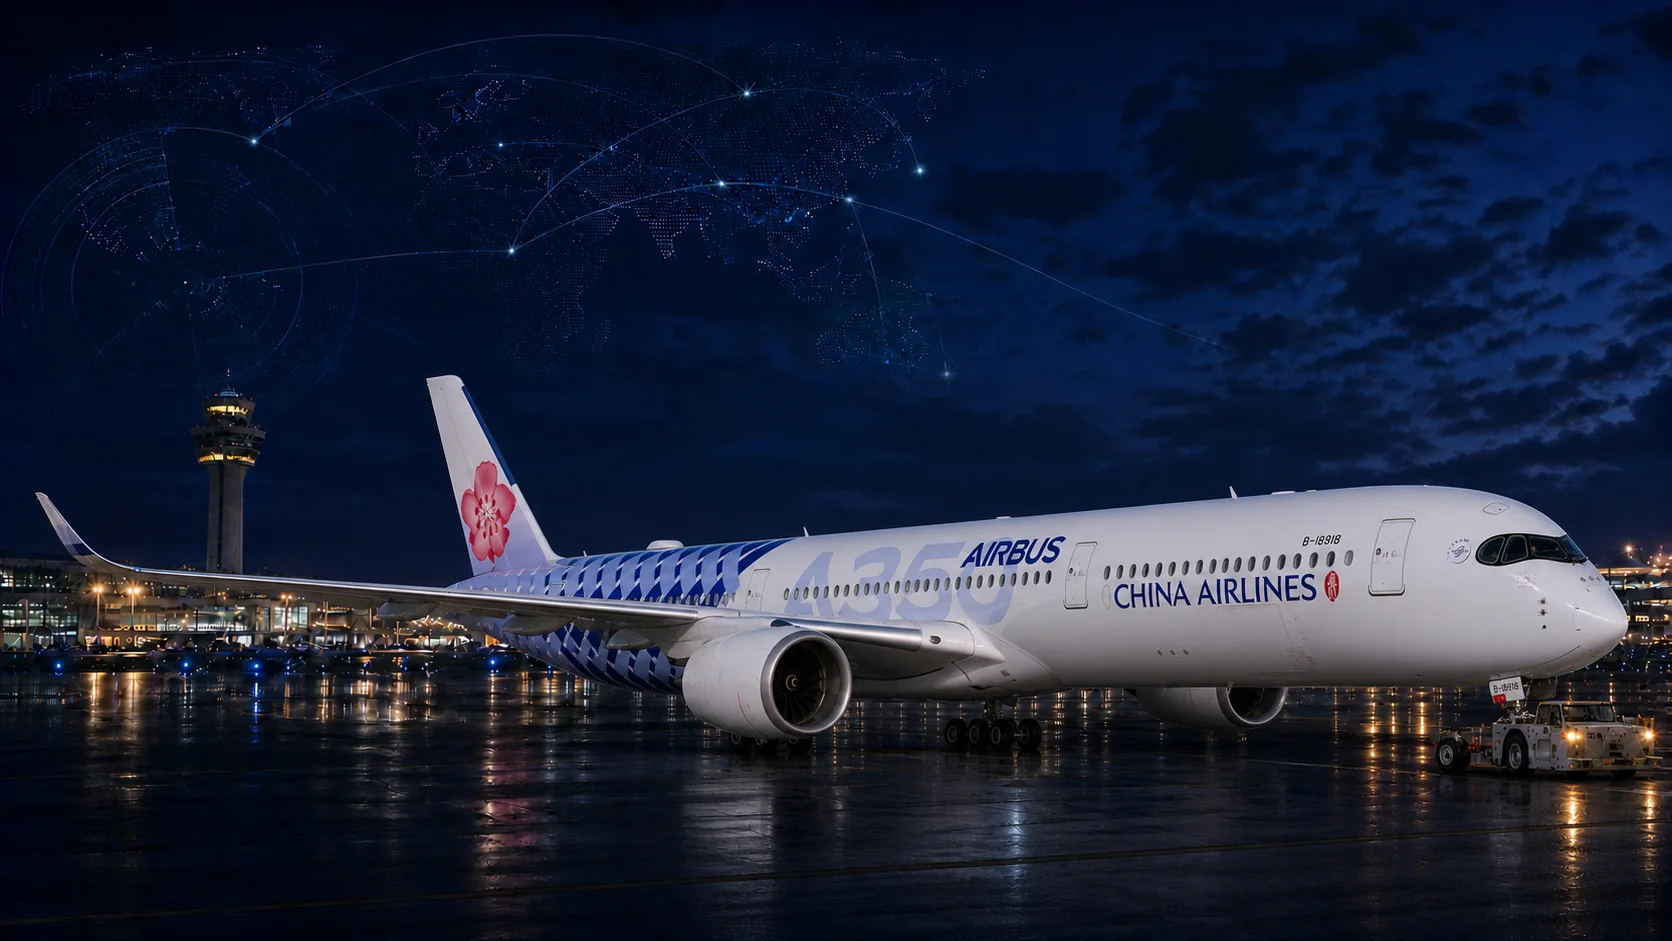
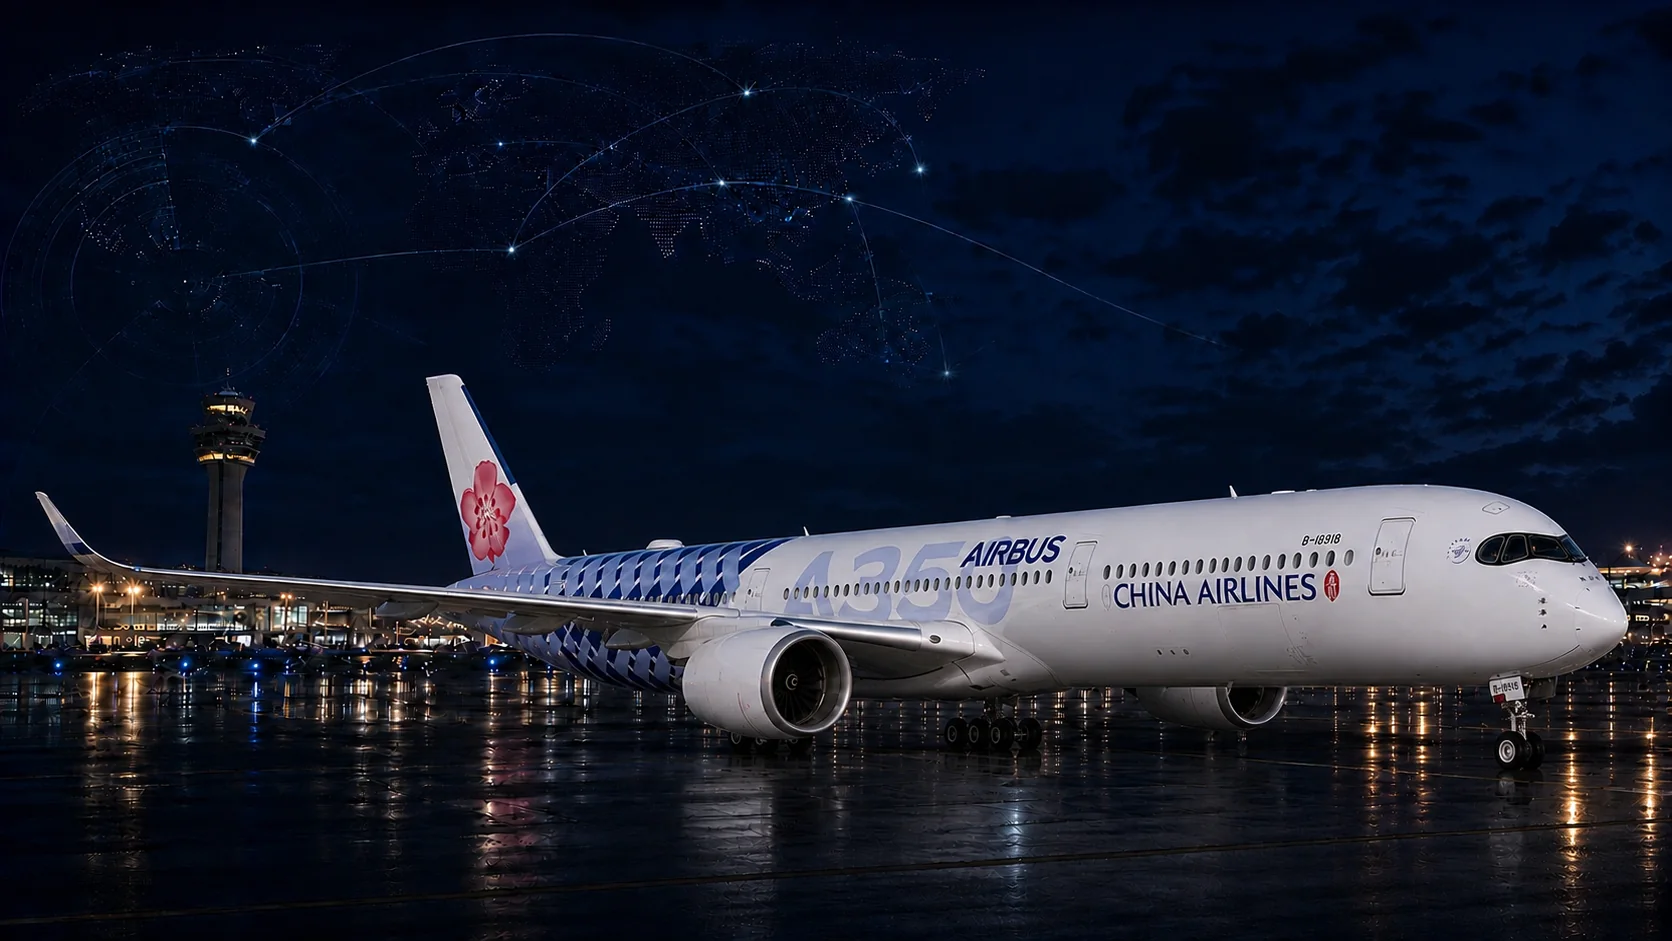
Add A350 Hero image to rotation

diff --git a/index.html b/index.html
@@ -13,13 +13,13 @@
     document.documentElement.dataset.heroStyle = ["1","2","3"].includes(style) ? style : "1";
   }());
 </script>
-<link href="css/style.css?v=20260808-1958" rel="stylesheet"/>
+<link href="css/style.css?v=20260808-2004" rel="stylesheet"/>
 </head>
 <body>
 <main id="top">
 <section class="hero">
 <div aria-hidden="true" class="hero-stage" id="heroStage">
-<img alt="" class="hero-slide is-active" decoding="async" fetchpriority="high" src="images/hero.webp?v=20260808-1958"/>
+<img alt="" class="hero-slide is-active" decoding="async" fetchpriority="high" src="images/hero.webp?v=20260808-2004"/>
 </div>
 <a aria-label="China Airlines Crew Portal Home" class="hero-logo-link" href="#top">
 <img alt="China Airlines Crew Portal logo" class="hero-logo" src="images/flightdeck-logo.webp"/>
@@ -289,7 +289,7 @@
           <div><b>ARINC route</b><span id="diagArincRoute">--</span></div>
           <div><b>ARINC HTTP</b><span id="diagArincHttp">--</span></div>
           <div><b>Browser cache</b><span id="diagCache">No-store requests</span></div>
-          <div><b>Version</b><span id="diagVersion">v8.2.72 · 20260808-1958</span></div>
+          <div><b>Version</b><span id="diagVersion">v8.2.73 · 20260808-2004</span></div>
         </div>
       </details>
     </details>
@@ -302,8 +302,8 @@
       <span>China Airlines Crew Portal</span>
     </div>
     <div class="footer-version" aria-label="Version information">
-      <span class="version-pill" id="footerVersion">Version v8.2.72</span>
-      <span id="footerBuild">Build 20260808-1958</span>
+      <span class="version-pill" id="footerVersion">Version v8.2.73</span>
+      <span id="footerBuild">Build 20260808-2004</span>
       <span>Designed for Flight Crew</span>
     </div>
   </div>
@@ -311,8 +311,8 @@
 <script src="js/app-1.js?v=6.4.2"></script>
 <script src="js/app-2.js?v=20260730-0903"></script>
 <script src="js/app-3.js?v=6.6.3"></script>
-<script src="js/app-4.js?v=20260808-1958"></script>
-<script src="js/airport-mrt.js?v=20260808-1958"></script>
-<script src="js/hero-slider.js?v=20260808-1958"></script>
+<script src="js/app-4.js?v=20260808-2004"></script>
+<script src="js/airport-mrt.js?v=20260808-2004"></script>
+<script src="js/hero-slider.js?v=20260808-2004"></script>
 </body>
 </html>

diff --git a/js/hero-slider.js b/js/hero-slider.js
@@ -3,12 +3,13 @@
   if(!stage)return;
 
   const slides=[
-    "images/hero.webp?v=20260808-1958",
-    "images/hero-a330-300.webp?v=20260808-1958",
-    "images/hero-b737-800.webp?v=20260808-1958",
-    "images/hero-b777-300er.webp?v=20260808-1958",
-    "images/hero-b787-10.webp?v=20260808-1958",
-    "images/hero-a321neo.webp?v=20260808-1958"
+    "images/hero.webp?v=20260808-2004",
+    "images/hero-a330-300.webp?v=20260808-2004",
+    "images/hero-b737-800.webp?v=20260808-2004",
+    "images/hero-b777-300er.webp?v=20260808-2004",
+    "images/hero-b787-10.webp?v=20260808-2004",
+    "images/hero-a321neo.webp?v=20260808-2004",
+    "images/hero-a350-1000.webp?v=20260808-2004"
   ];
   const intervalMs=10_000;
   const fadeMs=2_200;

diff --git a/cloudflare-worker.js b/cloudflare-worker.js
@@ -1,6 +1,6 @@
 /**
  * Crew Portal API — Cloudflare Worker
- * Version 2.8.72 (Crew Portal v8.2.72)
+ * Version 2.8.73 (Crew Portal v8.2.73)
  *
  * Primary MRT source: TDX TYMC StationTimeTable
  * Fallback MRT source: Taoyuan City Government Open Data XML
@@ -12,8 +12,8 @@
  *   TDX_CLIENT_SECRET
  */
 
-const PORTAL_VERSION = 'v8.2.72';
-const WORKER_VERSION = '2.8.72';
+const PORTAL_VERSION = 'v8.2.73';
+const WORKER_VERSION = '2.8.73';
 const DEFAULT_FLIGHT_AIRLINE = 'CI';
 const FLIGHT_UPSTREAM_TIMEOUT_MS = 7_000;
 const LIVE_FLIGHT_REFRESH_AGE_SECONDS = 10 * 60;

diff --git a/js/app-4.js b/js/app-4.js
@@ -1,6 +1,6 @@
 (function(){
-  const VERSION = "8.2.72";
-  const BUILD = "20260808-1958";
+  const VERSION = "8.2.73";
+  const BUILD = "20260808-2004";
   const DEFAULT_FLIGHT_AIRLINE = "CI";
   const RAW_BASE="https://raw.githubusercontent.com/B744F/crewportal/main/data/";
   const FLIGHT_GATE_API="https://flightdeck-api.201505-login.workers.dev/api/flight-gate";

diff --git a/CHANGELOG.md b/CHANGELOG.md
@@ -1,3 +1,9 @@
+## v8.2.73 — 2026-08-08
+
+- 補入 A350 Hero 圖片，輪播共七張，維持 B744 首張、每 10 秒切換與交疊過場。
+- A350 維持 1672×941 解析度並轉為高品質 WebP，以降低載入負荷。
+- 同步更新 Portal、Worker、Build 與靜態資產快取版本。
+
 ## v8.2.72 — 2026-08-08
 
 - 將 Hero 圖片更換為 B744、A330、B738、B777、B787 與 A321neo 六張新圖，維持 1672×941 並轉為高品質 WebP 以降低載入負荷。

diff --git a/DEPLOY.md b/DEPLOY.md
@@ -1,4 +1,4 @@
-# FlightDeck Crew Portal v8.2.72 部署
+# FlightDeck Crew Portal v8.2.73 部署
 
 ## 部署內容
 
@@ -13,8 +13,8 @@
 
 ```json
 {
-  "portalVersion": "v8.2.72",
-  "workerVersion": "2.8.72",
+  "portalVersion": "v8.2.73",
+  "workerVersion": "2.8.73",
   "timetableParser": "structured-official"
 }
 ```
